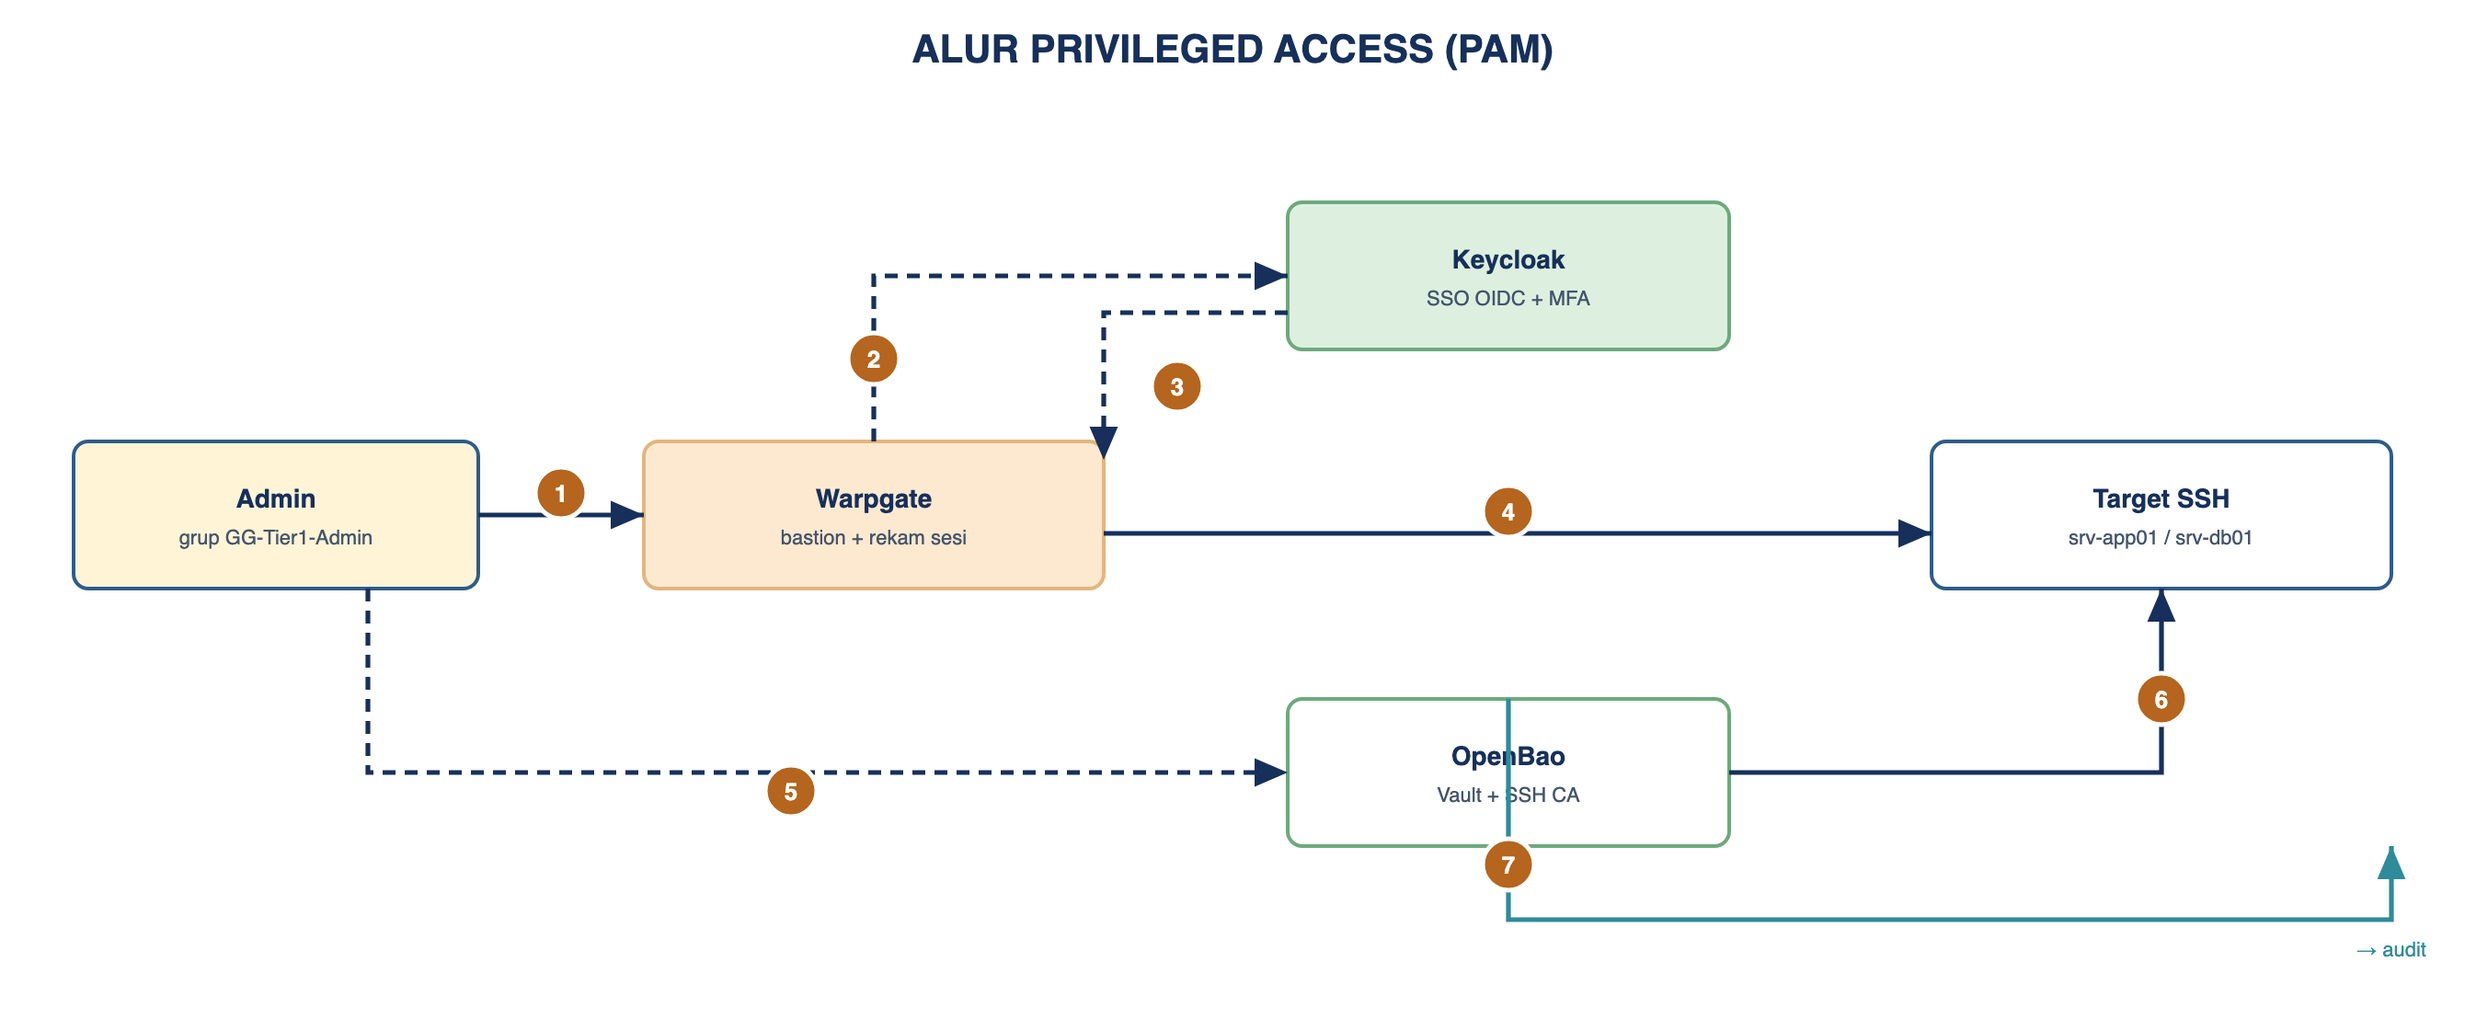
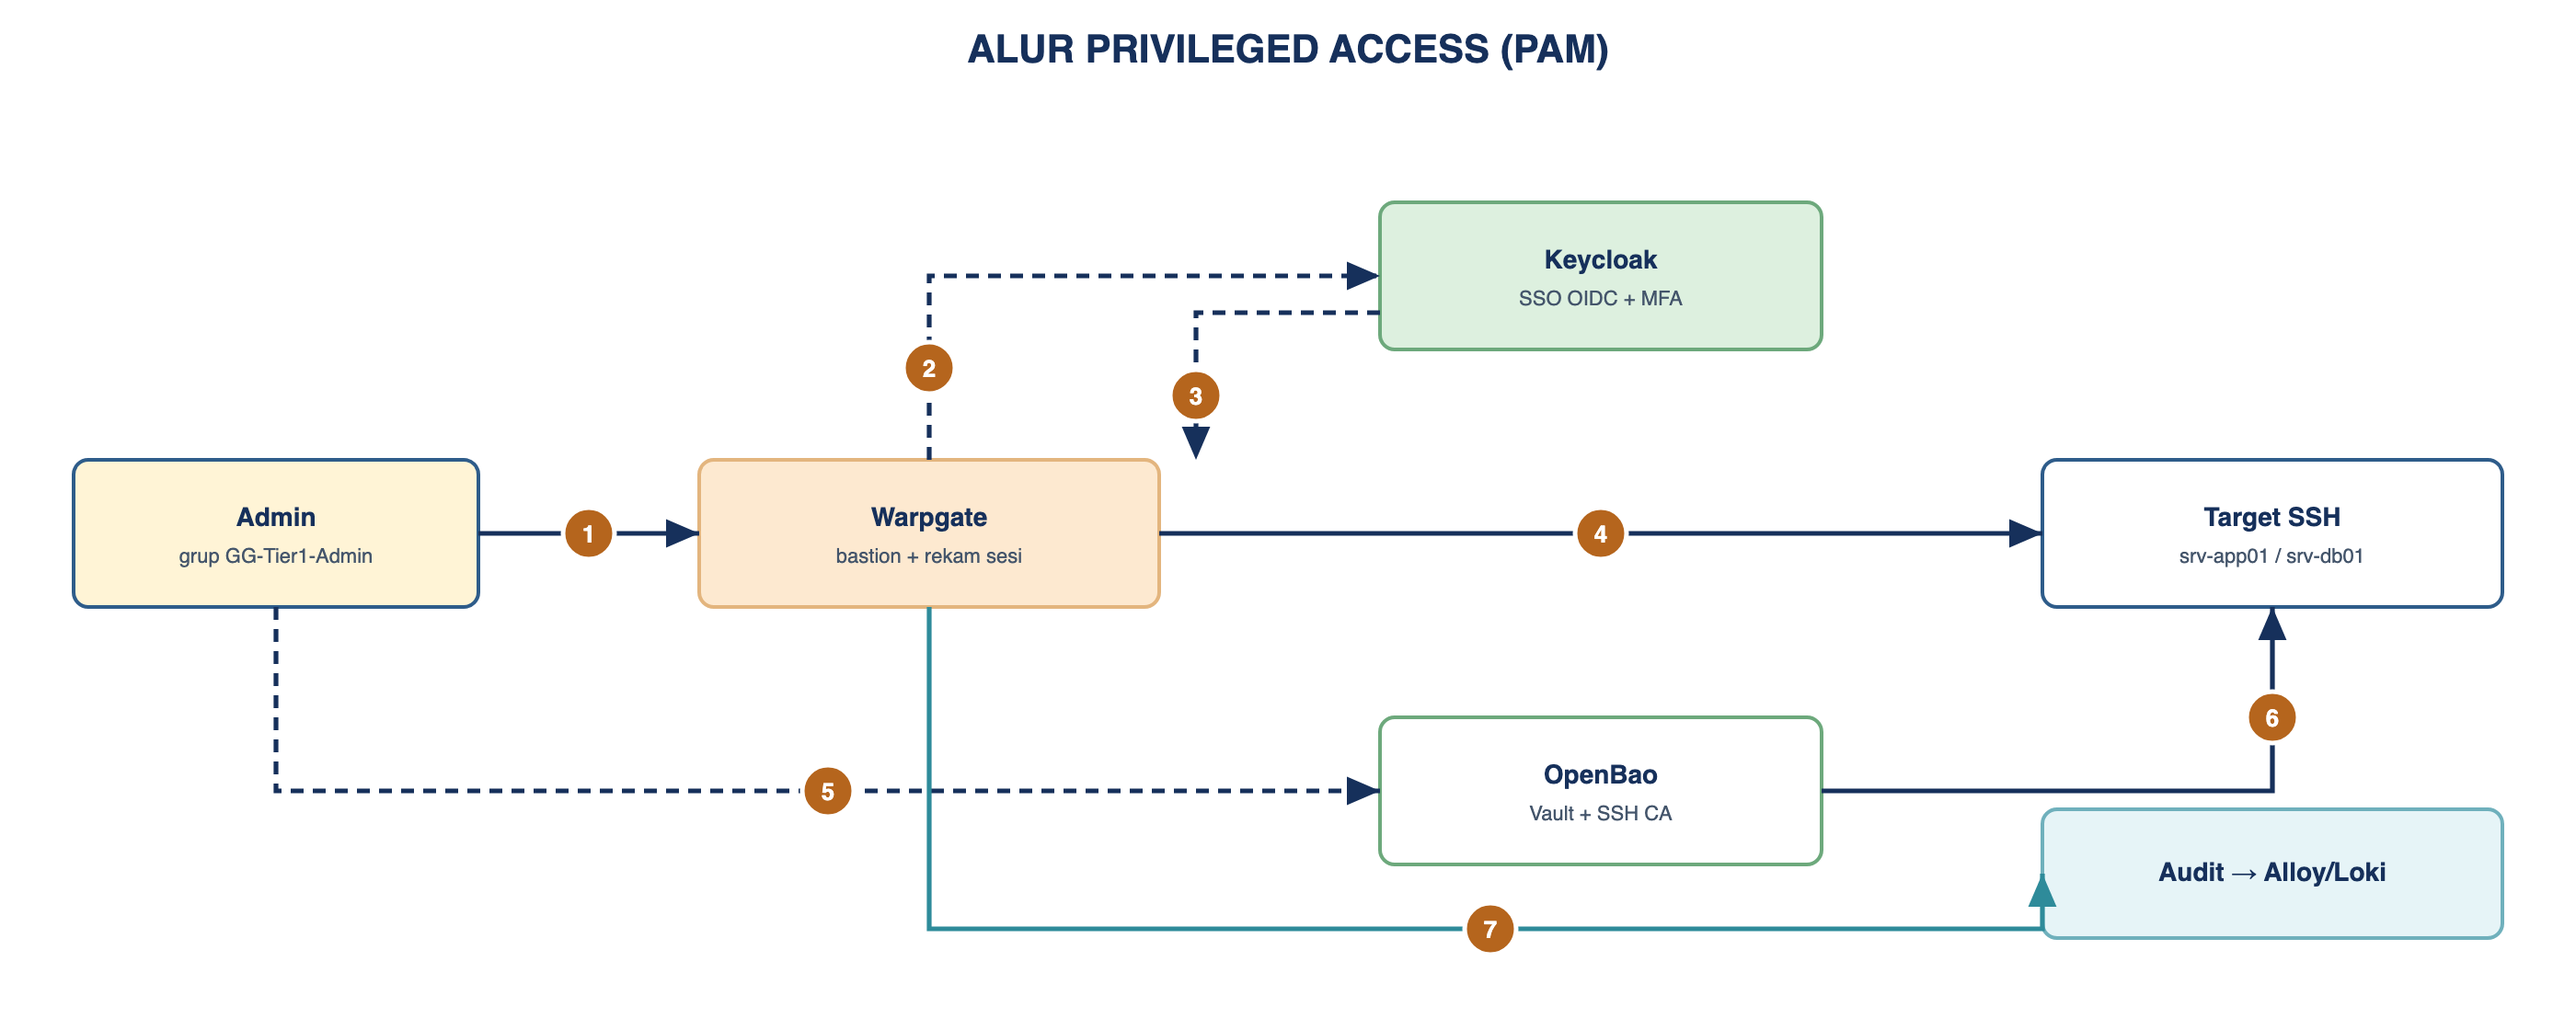
Sesi 2-4: diagram proporsional + 4 panel dashboard identitas
- Sesi 2: perbaiki proporsi alur SSO/MFA (no.6), jarak panah RBAC, dan
  ubah diagram distribusi sandi via email ke format bernomor+agenda.
- Sesi 3: perbaiki proporsi alur PAM (no.3 token+groups, no.7 trunk audit).
- Sesi 4: tambah 4 panel stat (Jumlah User, User Aktif, Notifikasi Email
  Terkirim, User Password Expired/Reset) + dokumentasi kuerinya di README.

diff --git a/sesi-4-audit-monitoring/README.md b/sesi-4-audit-monitoring/README.md
@@ -105,15 +105,30 @@ Untuk **Windows Event dari DC**: 🪟 pasang Grafana Alloy di VM DC dan kirim ke
 (`loki.source.windowsevent` → `http://<IP-host-docker>:3100`).
 
 ### 2. 🌐 Dashboard "Identity Audit" (`https://grafana.iamlab.test`)
-Buat ≥ 4 panel (datasource Loki sudah ada). Label `event` = tipe event Keycloak; `ip`/`user`
-tersedia sebagai *structured metadata* sehingga langsung dipakai di `sum by (...)`:
+Buat panel di datasource Loki (sudah ada). Label `event` = tipe event Keycloak; `ip`/`user`
+tersedia sebagai *structured metadata* sehingga langsung dipakai di `sum by (...)`.
+
+**Empat panel ringkas (stat) di baris atas** — indikator identitas 24 jam:
+
+| Panel | Arti | Kueri (LogQL) |
+|---|---|---|
+| **Jumlah User** | user unik yang terlihat di event | `count(sum by (user) (count_over_time({service="keycloak", event=~"LOGIN|LOGIN_ERROR"}[24h])))` |
+| **User Aktif** | user unik dengan login **sukses** | `count(sum by (user) (count_over_time({service="keycloak", event="LOGIN"}[24h])))` |
+| **Notifikasi Email Terkirim** | email akun terkirim (reset/verify/aksi) | `sum(count_over_time({service="keycloak"} \|~ "execute-actions-email\|SEND_" [24h]))` |
+| **User Password Expired/Reset** | reset/ganti sandi (admin & self-service) | `sum(count_over_time({service="keycloak"} \|~ "reset-password\|UPDATE_PASSWORD\|RESET_PASSWORD" [24h]))` |
+
+**Panel tren (timeseries/bargauge) di bawahnya:**
 - Login sukses vs gagal: `sum(count_over_time({service="keycloak", event="LOGIN"}[5m]))` vs `event="LOGIN_ERROR"`.
 - Top IP gagal: `topk(10, sum by (ip) (count_over_time({service="keycloak", event="LOGIN_ERROR"}[15m])))`.
-- Aktivitas per klien · Perubahan grup (Windows Event 4728/4732).
+- Aktivitas per layanan · Perubahan grup (Windows Event 4728/4732).
+
+> Dua panel email & password memakai **line-filter** (`|~`) karena email akun dan reset sandi
+> dipicu via Admin API Keycloak (tercatat sebagai operasi `ACTION`, bukan event `type=` biasa).
+> Semua stat diberi `noValue: "0"` agar menampilkan angka, bukan "No data", saat jendela kosong.
 
 Dashboard akhir yang diharapkan (berisi data nyata dari lalu lintas lab):
 
-![Grafana — dashboard Identity Audit: login sukses vs gagal, top IP gagal, aktivitas per klien](gambar/grafana-dashboard.png)
+![Grafana — dashboard Identity Audit: jumlah user, user aktif, email terkirim, password reset, login sukses vs gagal, top IP gagal, aktivitas per layanan](gambar/grafana-dashboard.png)
 
 > Catatan: event **LOGIN (sukses)** muncul karena stack menyetel
 > `KC_SPI_EVENTS_LISTENER_JBOSS_LOGGING_SUCCESS_LEVEL=info` (default DEBUG tersaring).
